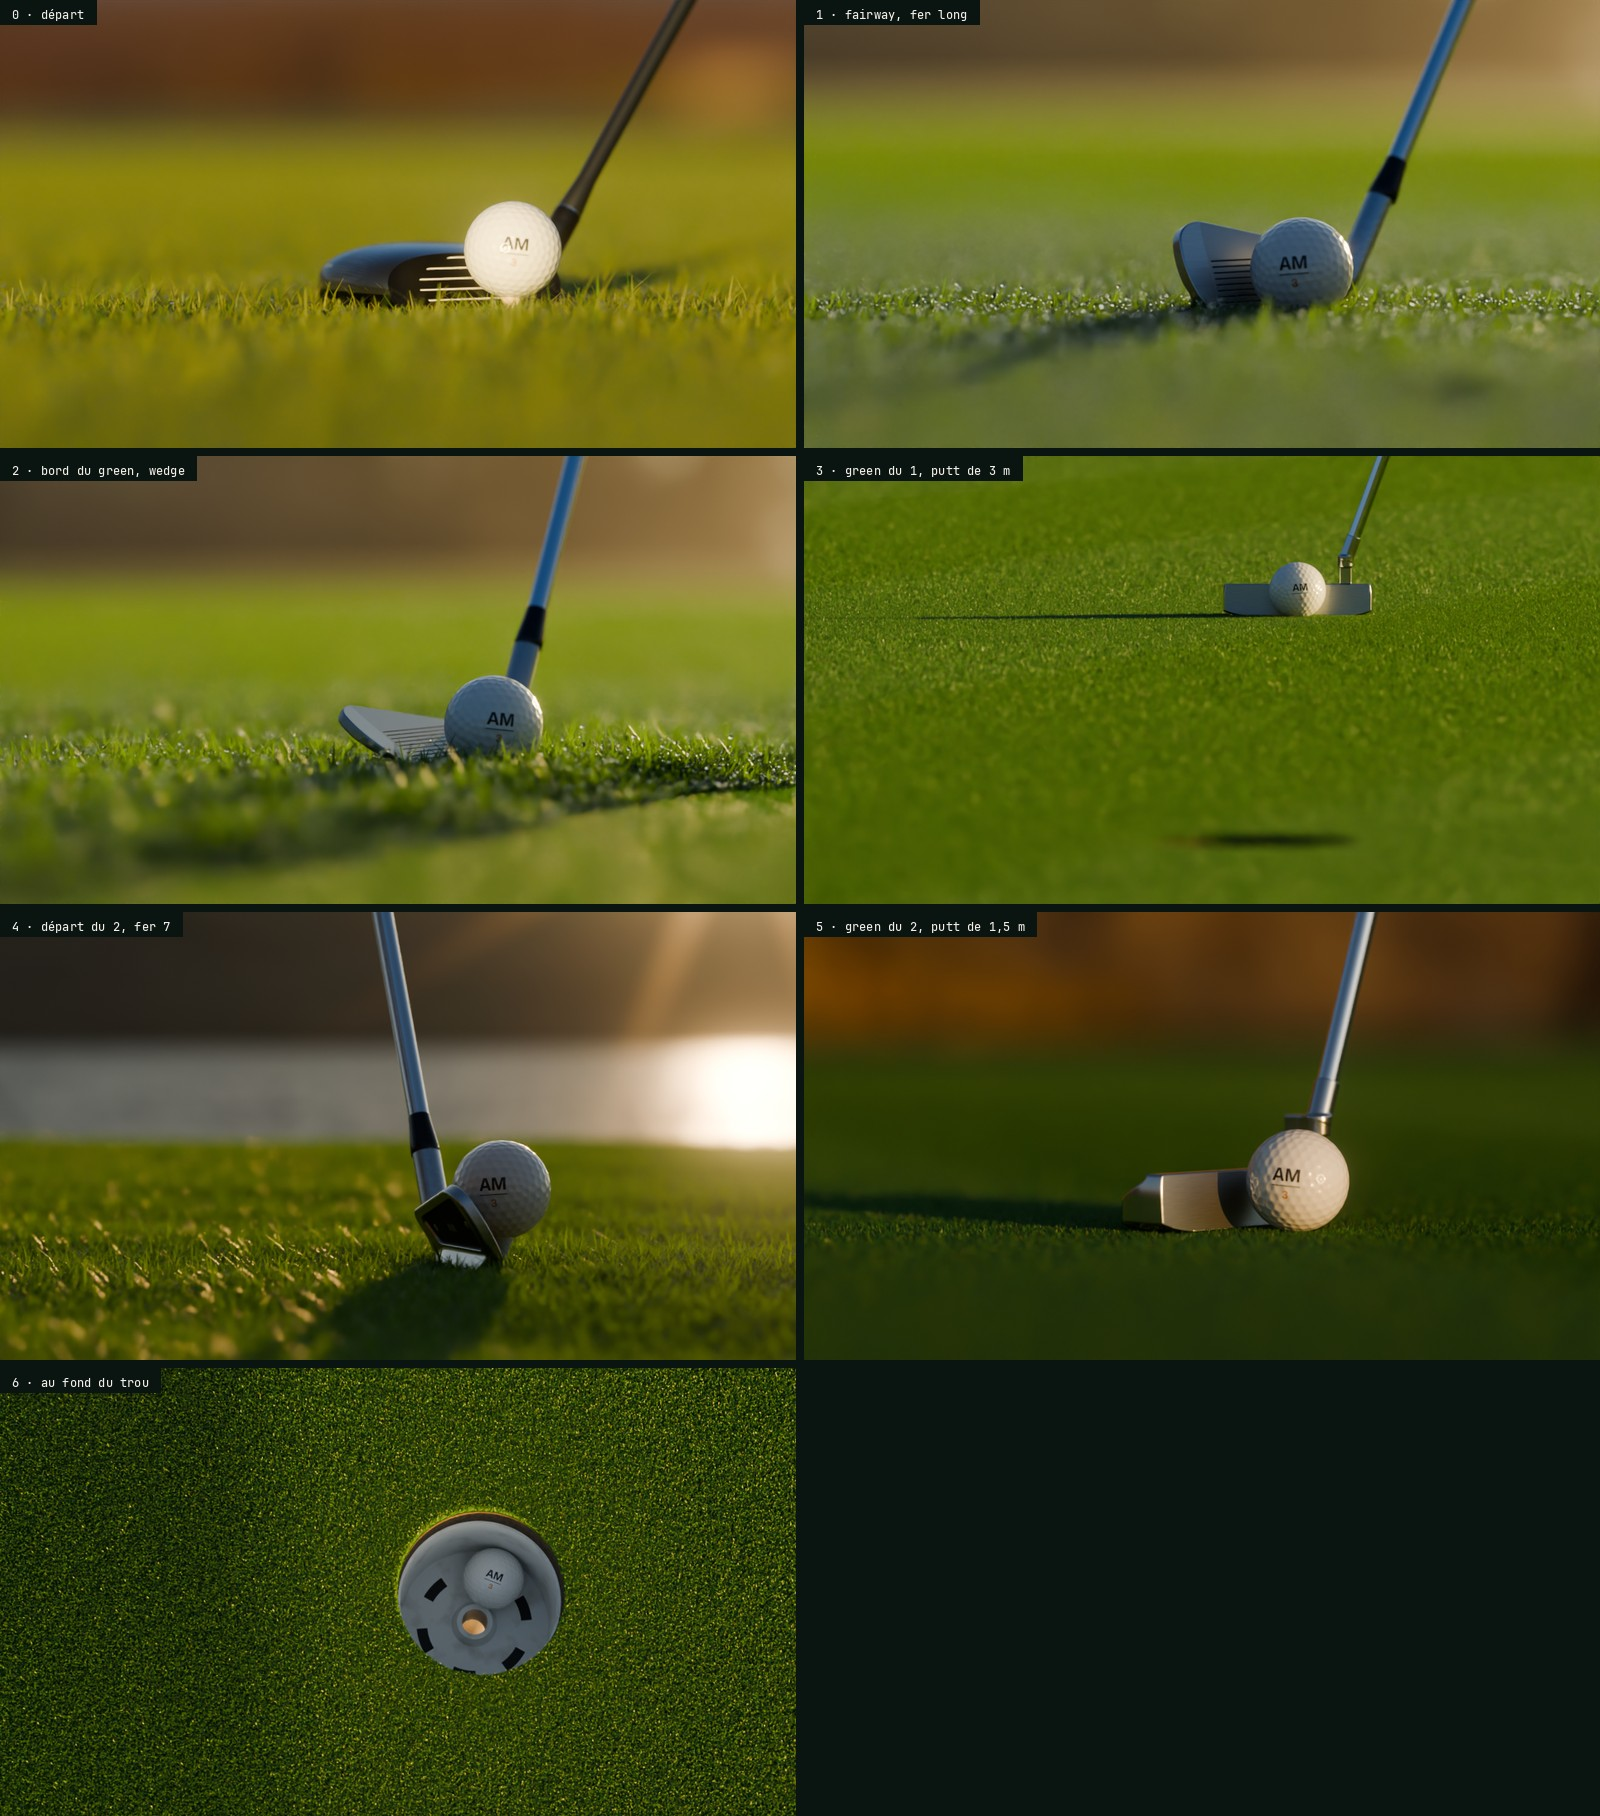
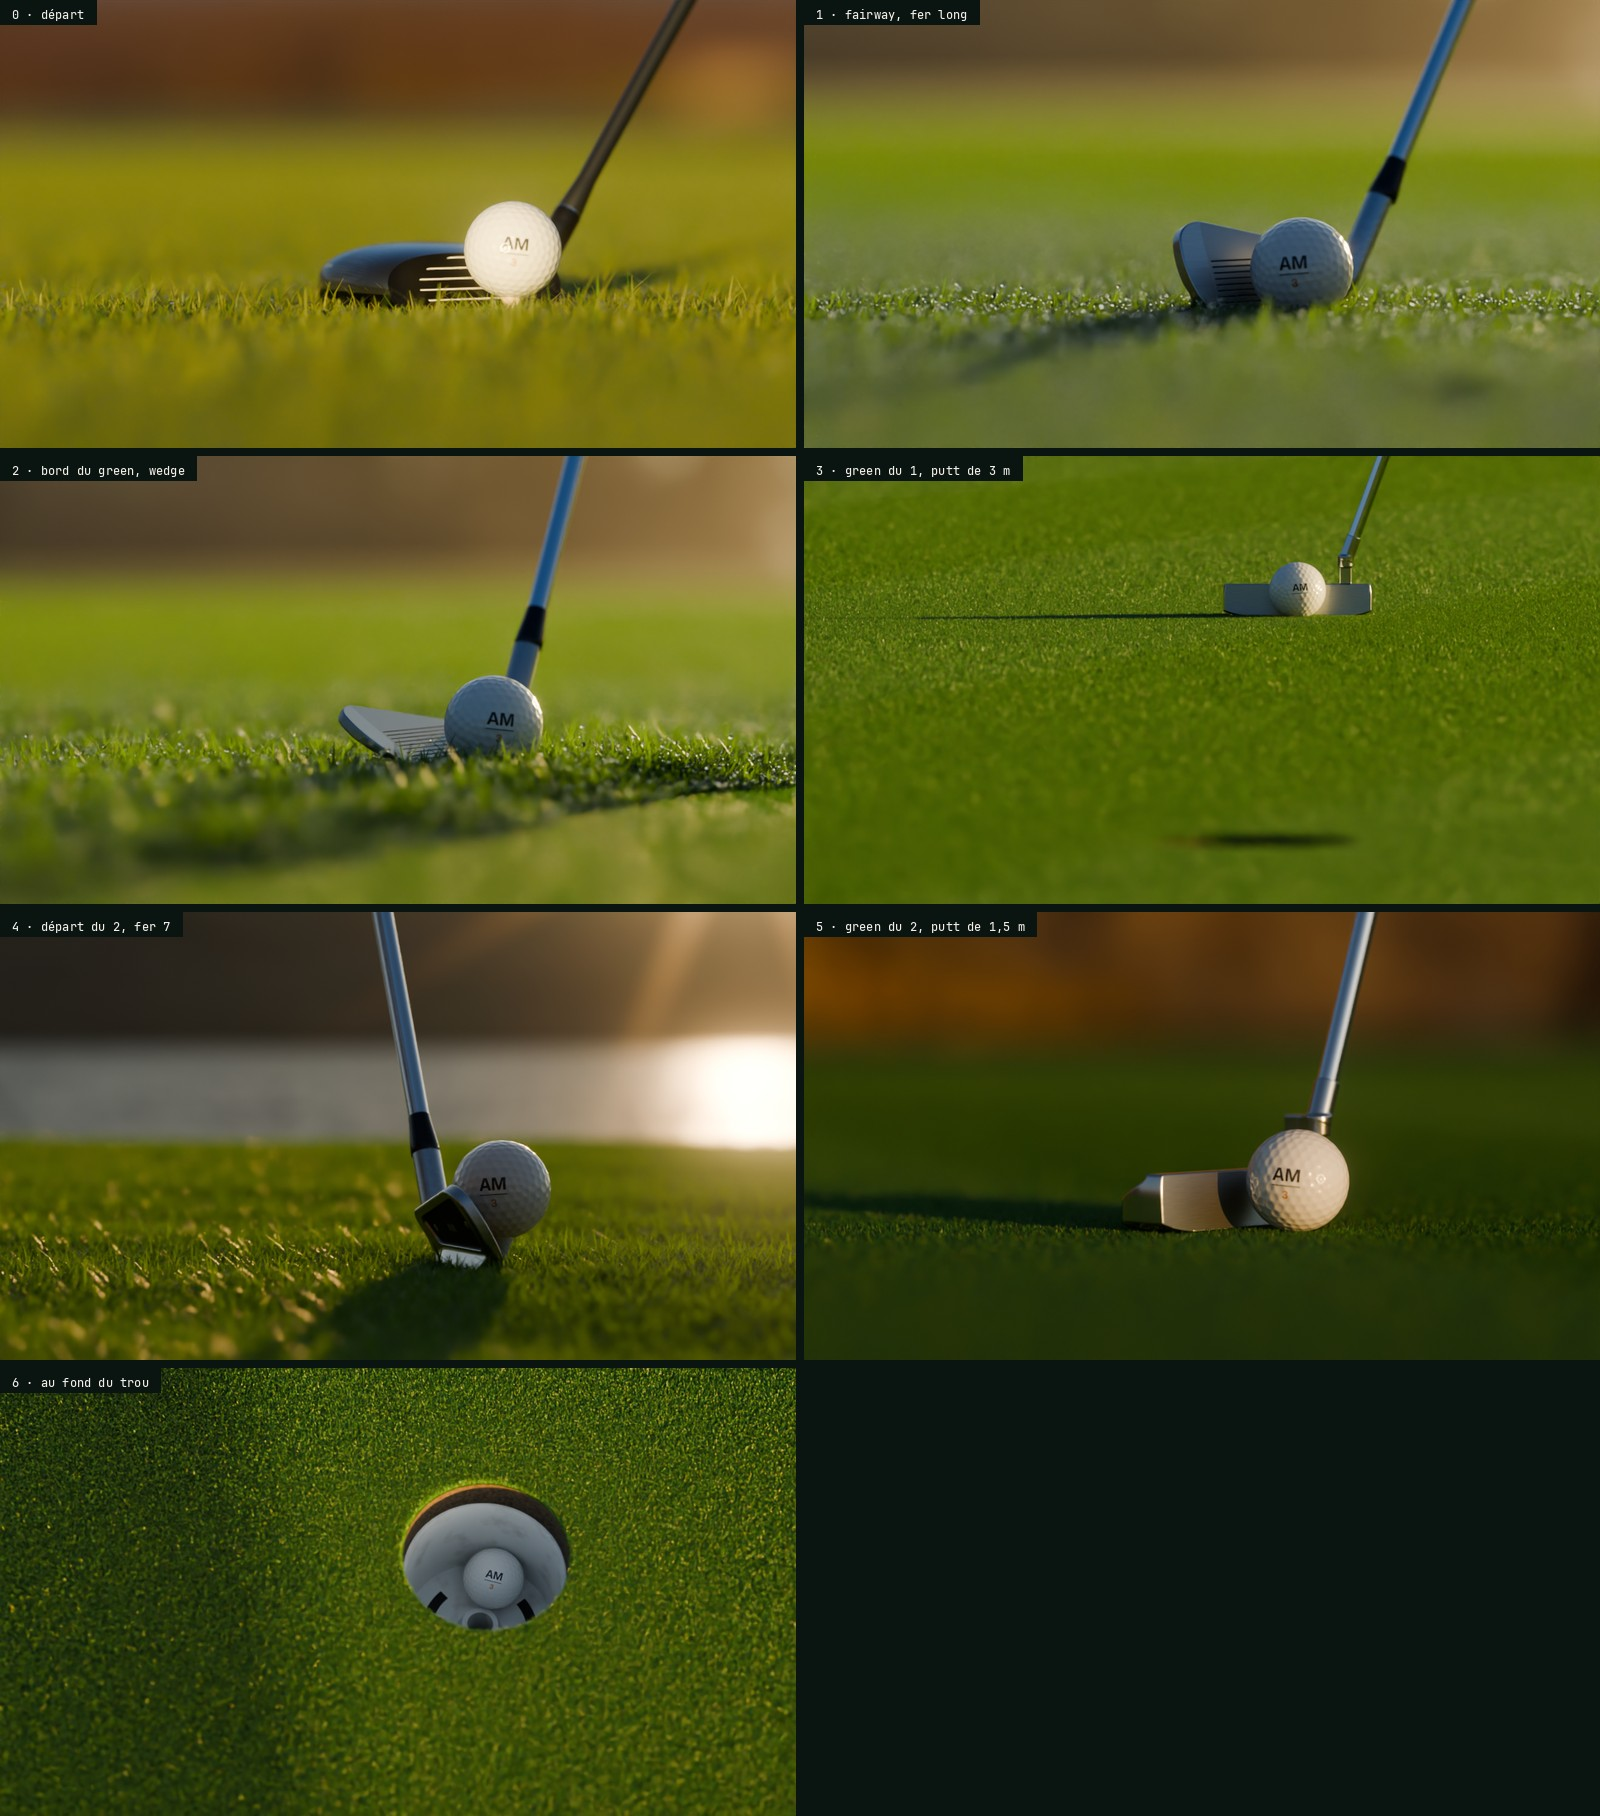
Arrêt 6 : plongée penchée de 28°, paroi du fond au soleil, fond de la douille fermé ; clés d'exposition pour les trajets
Claude-Session: https://claude.ai/code/session_01AGcwt1eedzLWBqQF5DDfmD

Changed region(s): [[0.0, 0.7401, 0.5, 1.0]]

diff --git a/render/scene.py b/render/scene.py
@@ -20,7 +20,7 @@
 #   départ du 1 (arrêt 0) · fairway (1) · green du 1 (2 et 3) · départ du 2 au bord de l'eau (4) · green du 2 (5 et 6)
 # Chaque arrêt N a sa balle (BN), son cadrage (view_N) et sa scène (stop_N), qui renvoie un Stage : sa
 # caméra, sa balle, son club, son lieu (sol, trou, gazon à replanter). Les trajets s'appuient dessus :
-# voir LEGS, key, key_view et render_leg en bas du fichier.
+# voir LEGS, key, key_view, key_look et render_leg en bas du fichier.
 import argparse
 import json
 import math
@@ -128,6 +128,7 @@ class Stage:
             self.cam_pos, self.target, self.lens, self.fstop = view.pos, view.target, view.lens, view.fstop
         self.__dict__.update(kw)
         self.exposure = scene.view_settings.exposure
+        self.warmth = scene.view_settings.white_balance_temperature if scene.view_settings.use_white_balance else 6500.0
 
 
 # ---------------------------------------------------------------- ciel
@@ -367,6 +368,14 @@ def club_obstacle(root):
     return lambda pts: C.distance(root, pts)
 
 
+def socket_floor(hole):
+    """Le fond de la douille où s'emboîte le drapeau : sans lui, on verrait le panorama à travers le godet."""
+    x, y, z, r = hole[0], hole[1], -P.CUP_DEPTH - 0.028, 0.012
+    o = P.mesh_obj('FondDouille', [(x - r, y - r, z), (x + r, y - r, z), (x + r, y + r, z), (x - r, y + r, z)], [(0, 1, 2, 3)], smooth=False)
+    P.assign(o, P.mat('FondDouille', (0.012, 0.011, 0.010), rough=0.9))
+    return o
+
+
 def outside(xy, centre, radius):
     """Garde les points hors d'un cercle (le trou, le pied du tee)."""
     return xy[np.hypot(xy[:, 0] - centre[0], xy[:, 1] - centre[1]) > radius]
@@ -519,6 +528,7 @@ def place_green1(pin=False):
     scene.view_settings.exposure = args.exposure if args.exposure is not None else -0.9
     P.lawn((0.028, 0.080, 0.011), (0.20, 0.22, 0.10), hole=(*G1_HOLE, P.CUP_R), disc=(*G1_C, G1_R, (0.034, 0.095, 0.014)), specular=0.12)
     P.cup(G1_HOLE)
+    socket_floor(G1_HOLE)
     flag = P.flagstick(G1_HOLE, heading=math.radians(200)) if pin else None
     return green_turf(G1_C, G1_R, angle=math.radians(opt('stripes', 168))), flag
 
@@ -661,6 +671,7 @@ def place_green2(pin=False):
     scene.view_settings.exposure = args.exposure if args.exposure is not None else -1.5
     P.lawn((0.028, 0.080, 0.011), (0.22, 0.20, 0.09), hole=(*G2_HOLE, P.CUP_R), disc=(*G2_C, G2_R, (0.034, 0.095, 0.014)), specular=0.2)
     P.cup(G2_HOLE)
+    socket_floor(G2_HOLE)
     flag = P.flagstick(G2_HOLE, heading=math.radians(215)) if pin else None
     return green_turf(G2_C, G2_R, angle=math.radians(opt('stripes', 152)), green=GREEN_GOLD), flag
 
@@ -680,11 +691,12 @@ def view_5():
 
 
 def view_6():
-    """Plongée presque à l'aplomb du trou, d'un peu plus d'un mètre : le godet entier tient dans la bande
+    """Plongée sur le trou, d'un peu plus d'un mètre, penchée de 28° : on voit la paroi du fond, sa bande
+    de terre au soleil, et le gazon se floute en haut et en bas. Le godet entier tient dans la bande
     que garde un téléphone."""
-    tilt, dist = math.radians(12), opt('dist', 1.22)
+    tilt, dist = math.radians(opt('tilt', 28)), opt('dist', 1.22)
     pos = V((G2_HOLE[0] - dist * math.sin(tilt) * math.cos(G2_UP), G2_HOLE[1] - dist * math.sin(tilt) * math.sin(G2_UP), dist * math.cos(tilt)))
-    return View(pos, aim(pos, B6, 85, 0.62, opt('fy', 0.47)), 85, 9.0, B6 + V((0, 0, P.BALL_R + 0.012)))
+    return View(pos, aim(pos, B6, 85, 0.62, opt('fy', 0.47)), 85, opt('fstop', 2.8), B6 + V((0, 0, P.BALL_R)))
 
 
 def stop_5(pin=False):
@@ -710,8 +722,8 @@ def stop_5(pin=False):
 
 
 def stop_6(pin=False):
-    """Le contact : la balle au fond du trou du 2. Vue plongeante, presque à l'aplomb : le godet blanc,
-    la bande de terre, le bord de gazon ras dans la lumière dorée."""
+    """Le contact : la balle au fond du trou du 2. Vue plongeante : le godet blanc, la bande de terre
+    au soleil, le bord de gazon ras dans la lumière dorée."""
     turf, flag = place_green2(pin)
     up = G2_UP
     hx, hy = G2_HOLE
@@ -719,10 +731,10 @@ def stop_6(pin=False):
     b = P.ball(centre, stamp=STAMP)
     # Le soleil rasant n'entre pas dans le trou : le godet n'est éclairé que par le ciel, bleu. On pose
     # pour lui, et on réchauffe la balance des blancs, comme le ferait un photographe à l'ombre.
-    scene.view_settings.exposure = args.exposure if args.exposure is not None else 1.0
-    if opt('wb', 9000):
+    scene.view_settings.exposure = args.exposure if args.exposure is not None else 1.1
+    if opt('wb', 8500):
         scene.view_settings.use_white_balance = True
-        scene.view_settings.white_balance_temperature = opt('wb', 9000)
+        scene.view_settings.white_balance_temperature = opt('wb', 8500)
 
     view = view_6()
     cam = shoot(view)
@@ -795,6 +807,8 @@ def render_stop(k):
 #       key(a.ball, 36, B6)
 #       key_view(a.cam, first, a.view)
 #       key_view(a.cam, last, end)
+#       key_look(first, a.exposure, a.warmth)         # l'arrêt 6 est posé pour l'ombre du godet
+#       key_look(last, 1.1, 8500)
 #   LEGS[5] = [(1, 44, putt_du_2)]
 #
 # Le flou de mouvement vient des clés. La première image d'un trajet est la vue de son arrêt de départ
@@ -828,6 +842,19 @@ def key_view(cam, frame, view):
     cam.data.keyframe_insert('lens', frame=frame)
     cam.data.dof.keyframe_insert('focus_distance', frame=frame)
     cam.data.dof.keyframe_insert('aperture_fstop', frame=frame)
+
+
+def key_look(frame, exposure=None, warmth=None):
+    """Clé sur le développement de l'image : l'exposition, et la balance des blancs (kelvins ; 6500 :
+    neutre). Deux arrêts d'un même lieu ne sont pas posés pareil (stage.exposure, stage.warmth)."""
+    vs = scene.view_settings
+    if exposure is not None:
+        vs.exposure = exposure
+        scene.keyframe_insert('view_settings.exposure', frame=frame)
+    if warmth is not None:
+        vs.use_white_balance = True
+        vs.white_balance_temperature = warmth
+        scene.keyframe_insert('view_settings.white_balance_temperature', frame=frame)
 
 
 def render_leg(k):
